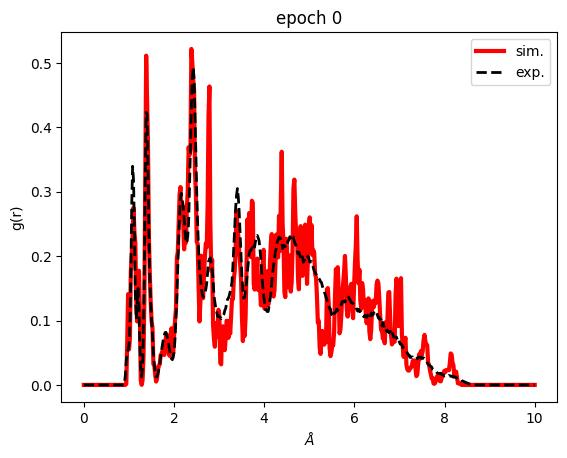
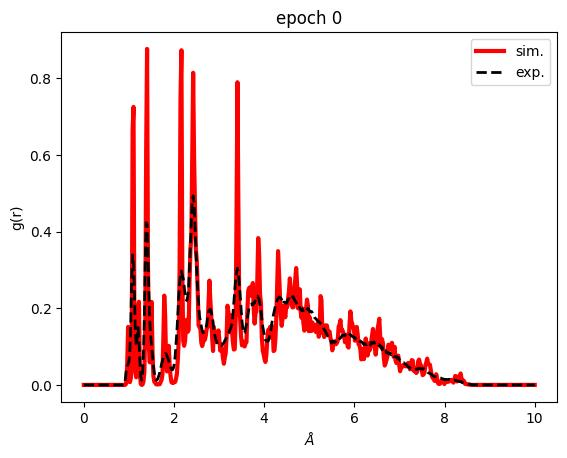
Finished replicas for forwards pass

diff --git a/scripts/run_md17.py b/scripts/run_md17.py
@@ -29,15 +29,15 @@ NAME = 'md17'
 SCHNET_PATH = 'md17-aspirin_1k_schnet'
 
 
-def plot_rdfs(bins, target_g, simulated_g, fname, path, tau):
+def plot_rdfs(bins, target_g, simulated_g, fname, path, tau, rdf_title):
     plt.title("epoch {}".format(fname))
-    plt.plot(bins, simulated_g.detach().cpu().numpy(), c='red', lw='3', label='sim.' )
+    plt.plot(bins, simulated_g.detach().cpu().numpy(), c='red', label='sim.' )
     plt.plot(bins, target_g, linewidth=2,linestyle='--', c='black', label='exp.')
     plt.legend()
     plt.xlabel("$\AA$")
     plt.ylabel("g(r)")
     # plt.ylim(0 , .6)
-    plt.savefig(path + f'/ch660_every1/rdf_plot{tau}.jpg', bbox_inches='tight')
+    plt.savefig(path + rdf_title, bbox_inches='tight')
     plt.show()
     plt.close()
 
@@ -110,11 +110,18 @@ def fit_rdf(suggestion_id, device, project_name):
 
     # initialize states with ASE # TODO: instead, load in your model DONE
     #initialize datasets
+
+
     train_dataset = LmdbDataset({'src': os.path.join(NAME, MOLECULE, SIZE, 'train')})
     # valid_dataset = LmdbDataset({'src': os.path.join(config['dataset']['src'], NAME, MOLECULE, SIZE, 'val')})
 
     #get first configuration from dataset
-    init_data = train_dataset.__getitem__(7)
+    np.random.randint(100)
+    
+    num_replicas = 1
+
+    samples = np.random.choice(np.arange(train_dataset.__len__()), num_replicas)
+    init_data_arr = [train_dataset.__getitem__(i) for i in samples]
 
 
     n_epochs = 1000  # number of epochs to train for
@@ -127,25 +134,29 @@ def fit_rdf(suggestion_id, device, project_name):
     dt = 0.5 * units.fs
     temp = 500* units.kB
     ttime =  20   #ttime is only used for NVT setup - it's not the total time
-    n_atoms =init_data['pos'].shape[0] 
+    n_atoms =init_data_arr[0]['pos'].shape[0] 
     targeEkin = 0.5 * (3.0 * n_atoms) * temp
     Q = 3.0 * n_atoms * temp * (ttime * dt)**2
     use_chain = False
-    rdf_skip = 1
+    rdf_skip = 10
+    rdf_title = f'/replicas/rdf_plot_{num_replicas}replicas{tau}t'
 
 
-    atoms = data_to_atoms(init_data)
-    system = System(atoms, device=device)
-    system.set_temperature(temp)
-    NL = NeighborList(natural_cutoffs(atoms), self_interaction=False)
-    NL.update(atoms)
-    bonds = torch.tensor(NL.get_connectivity_matrix().todense().nonzero()).to(device).T
-    atom_types_list = list(set(atoms.get_chemical_symbols()))
-    atom_types = atoms.get_chemical_symbols()
-    type_to_index = {value: index for index, value in enumerate(atom_types_list)}
-    typeid = np.zeros(n_atoms, dtype=int)
-    for i, _type in enumerate(atom_types):
-        typeid[i] = type_to_index[_type]    
+    atoms_arr = [data_to_atoms(init_data) for init_data in init_data_arr]
+    systems_arr= [System(atoms, device=device) for atoms in atoms_arr]
+    [system.set_temperature(temp) for system in systems_arr]
+    # NL_arr = [NeighborList(natural_cutoffs(atoms), self_interaction=False) for atoms in atoms_arr]
+    # [NL_arr[i].update(atoms_arr[i]) for i in range(len(atoms_arr))]
+    # bonds = torch.tensor(NL.get_connectivity_matrix().todense().nonzero()).to(device).T
+
+    # PURE OVITO STUFF 
+    # atom_types_list = list(set(atoms_arr[0].get_chemical_symbols()))
+    # atom_types = atoms_arr[0].get_chemical_symbols()
+    # type_to_index = {value: index for index, value in enumerate(atom_types_list)}
+    # typeid = np.zeros(n_atoms, dtype=int)
+    # for i, _type in enumerate(atom_types):
+    #     typeid[i] = type_to_index[_type]   
+    # END OVITO STUFF  
     try:
         device2 = torch.device(torch.cuda.current_device())
     except:
@@ -155,8 +166,9 @@ def fit_rdf(suggestion_id, device, project_name):
     model, config = load_schnet_model(path= SCHNET_PATH, ckpt_epoch='660', device=torch.device(device2))
  
 
-    atomic_nums = torch.Tensor(atoms.get_atomic_numbers()).to(torch.long).to(device2)
-    GNN = GNNPotentials(system, model, cutoff, atomic_nums )
+    atomic_nums = torch.Tensor(atoms_arr[0].get_atomic_numbers()).to(torch.long).to(device2).repeat(num_replicas)
+    batch = torch.arange(num_replicas).repeat_interleave(n_atoms).to(device2)
+    GNN = GNNPotentials(systems_arr[0], model, cutoff, atomic_nums, batch )
     model = GNN
     ovito_config = gsd.hoomd.open(name= f'{model_path}/sim_temp.gsd', mode='w')
 
@@ -164,27 +176,28 @@ def fit_rdf(suggestion_id, device, project_name):
     # define the equation of motion to propagate (the Integrater)
 
     diffeq = NoseHoover(model, 
-            system,
+            systems_arr,
             Q= Q, 
             T= temp,  
             targetEkin= targeEkin,
+            num_replicas=num_replicas,
             adjoint=True).to(device)
-    sim = Simulations(system, diffeq, method="MDsimNH", wrap=False)
+    sim = Simulations(systems_arr, diffeq, method="MDsimNH", wrap=False)
     if use_chain:
         diffeq = NoseHooverChain(model, 
-            system,
+            systems_arr[0],
             Q=50.0, 
             T=298.0 * units.kB,
             num_chains=5, 
             adjoint=True).to(device)
         # define simulator with 
-        sim = Simulations(system, diffeq, method="NH_verlet")
+        sim = Simulations(systems_arr, diffeq, method="NH_verlet")
 
 
 
 
     # initialize observable function 
-    obs = rdf(system, nbins, (start, end), width=.01 ) # initialize rdf function for the system
+    obs = rdf(systems_arr[0], nbins, (start, end), width=.01 ) # initialize rdf function for the system
 
 
 
@@ -212,16 +225,22 @@ def fit_rdf(suggestion_id, device, project_name):
         trajs = sim.simulate(steps=tau, frequency=int(tau), dt = dt)
         # download_ovito(trajs, dt, bonds, atom_types_list, typeid, ovito_config)
         # ovito_config.close()
-        v_t, q_t, pv_t = trajs 
-        _, bins, g = obs(q_t[::rdf_skip])
+        v_t, q_t, pv_t = trajs
+        # _, bins, g = obs(q_t[::rdf_skip, i])
+        del(v_t)
+        del(pv_t)
+        q_t_obs = torch.stack([obs(q_t[::rdf_skip, i, : , :])[2] for i in range(q_t.shape[1])])
+        # Now, let's average over all the rows for g (in the 99 dimension)
+        g = q_t_obs.mean(dim=0)
+
         g = g * .5
         if  i % 25 == 0:
-           plot_rdfs(xnew, g_obs, g, i, model_path, tau)
+           plot_rdfs(xnew, g_obs, g, i, model_path, tau, rdf_title)
 
         # Calculate the loss
         
         loss = (g - g_obs_tensor).pow(2).mean()
-
+        exit(1)
         print("LOSS: ", loss.item())
         loss.backward()
         duration = (datetime.now() - current_time)

diff --git a/torchmd/md.py b/torchmd/md.py
@@ -29,13 +29,13 @@ class Simulations():
     """
     
     def __init__(self,
-                 system,
+                 systems_arr,
                   integrator,
                   wrap=True,
                   method="NH_verlet"):
 
-        self.system = system 
-        self.device = system.device
+        self.systems_arr = systems_arr 
+        self.device = systems_arr[0].device
         self.integrator = integrator
         self.solvemethod = method
         self.wrap = wrap
@@ -56,9 +56,9 @@ class Simulations():
 
     def update_states(self):
         if "positions" in self.log.keys():
-            self.system.set_positions(self.log['positions'][-1])
+            [system.set_positions(self.log['positions'][-1][i]) for i, system in enumerate(self.systems_arr)]
         if "velocities" in self.log.keys():
-            self.system.set_velocities(self.log['velocities'][-1])
+            [system.set_velocities(self.log['velocities'][-1][i]) for i, system in enumerate(self.systems_arr)]
 
     def get_check_point(self):
 
@@ -263,18 +263,18 @@ class NoseHooverChain(torch.nn.Module):
 
 
 class NoseHoover(torch.nn.Module):
-    def __init__(self, potentials, system, T, targetEkin, num_chains=2, Q=1.0, adjoint=True,
+    def __init__(self, potentials, systems_arr, T, targetEkin, num_replicas=1, Q=1.0, adjoint=True,
                 topology_update_freq=1):
         super().__init__()
         self.model = potentials 
-        self.system = system
-        self.device = system.device # should just use system.device throughout
-        self.mass = torch.Tensor(system.get_masses()).to(self.device)
+        self.systems_arr = systems_arr
+        self.device = systems_arr[0].device # should just use system.device throughout
+        self.mass = torch.Tensor(self.systems_arr[0].get_masses()[None, :, None]).to(self.device)
         self.T = T # in energy unit(eV)
-        self.N_dof = self.mass.shape[0] * system.dim
+        self.N_dof = self.mass.shape[0] * systems_arr[0].dim
         self.Q = Q
         # self.Q = torch.Tensor([self.Q]).to(self.device)
-        self.dim = system.dim
+        self.dim = systems_arr[0].dim
         self.adjoint = adjoint
         self.state_keys = ['velocities', 'positions', 'baths']
         self.topology_update_freq = topology_update_freq
@@ -299,25 +299,25 @@ class NoseHoover(torch.nn.Module):
             if self.adjoint:
                 q.requires_grad = True
             
-            p = v * self.mass[:, None]
+            p = v * self.mass
 
-            sys_ke = 0.5 * (p.pow(2) / self.mass[:, None]).sum() 
-            
+            sys_ke = 0.5 * (p.pow(2) / self.mass).sum([1,2]) 
+
             self.update_topology(q)           
             
             u = self.model(q)
             f = -compute_grad(inputs=q, output=u.sum(-1))
-            accel = f / self.mass[:, None]
+            accel = f / self.mass
         a = (accel, v,  1/self.Q * (sys_ke - self.targetEkin))
 
         return (accel, v,  (1/self.Q * (sys_ke - self.targetEkin)))
 
     def get_inital_states(self, wrap=True):
         states = [
-                self.system.get_velocities(), 
-                self.system.get_positions(), 
-                [0.0]]
-        states = [torch.Tensor(var).to(self.system.device) for var in states]
+                [system.get_velocities() for system in self.systems_arr], 
+                [system.get_positions() for system in self.systems_arr], 
+                [0.0 for i in range(len(self.systems_arr))]]
+        states = [torch.Tensor(var).to(self.device) for var in states]
         return states
         
 

diff --git a/torchmd/interface.py b/torchmd/interface.py
@@ -94,7 +94,7 @@ class GNNPotentials(GeneralInteraction):
         inputs (TYPE): Description
     """
     
-    def __init__(self, system, gnn, cutoff, atomic_nums, ex_pairs=None):
+    def __init__(self, system, gnn, cutoff, atomic_nums, batch, ex_pairs=None):
         """Summary
         
         Args:
@@ -111,7 +111,7 @@ class GNNPotentials(GeneralInteraction):
         self.ex_pairs = ex_pairs
         self.to(self.device)
         self.atomic_numbers = atomic_nums
-
+        self.batch = batch
         self._reset_topology(torch.Tensor(system.get_positions()).to(system.device))
 
     def _reset_topology(self, xyz):
@@ -133,7 +133,7 @@ class GNNPotentials(GeneralInteraction):
             TYPE: Description
         """
         #self._reset_topology(xyz)
-        results = self.gnn(self.atomic_numbers, xyz)
+        results = self.gnn(self.atomic_numbers, xyz.reshape(-1, 3), batch= self.batch)
         return results
 
 

diff --git a/torchmd/sovlers.py b/torchmd/sovlers.py
@@ -143,10 +143,10 @@ def forward_nvt_update(func, t, dt, y):
 
         # make full step in position 
         radii = y[1] + vel * dt + \
-            (accel - y[2] * vel) * (0.5 * dt ** 2)
+            (accel - y[2][:, None, None] * vel) * (0.5 * dt ** 2)
 
         # make half a step in velocity
-        velocities = y[0] + 0.5 * dt * (accel - y[2] * y[0])
+        velocities = y[0] + 0.5 * dt * (accel - y[2][:, None, None] * y[0])
 
         # make a half step in self.zeta
         zeta = y[2] +  0.5 * zeta_dot * dt
@@ -159,7 +159,7 @@ def forward_nvt_update(func, t, dt, y):
 
         # make another half step in velocity
         velocities = (velocities + 0.5 * dt * accel) / \
-            (1 + 0.5 * dt * zeta)
+            (1 + 0.5 * dt * zeta[:, None, None])
         
 
         result = (velocities - y[0], radii - y[1], zeta - y[2])
